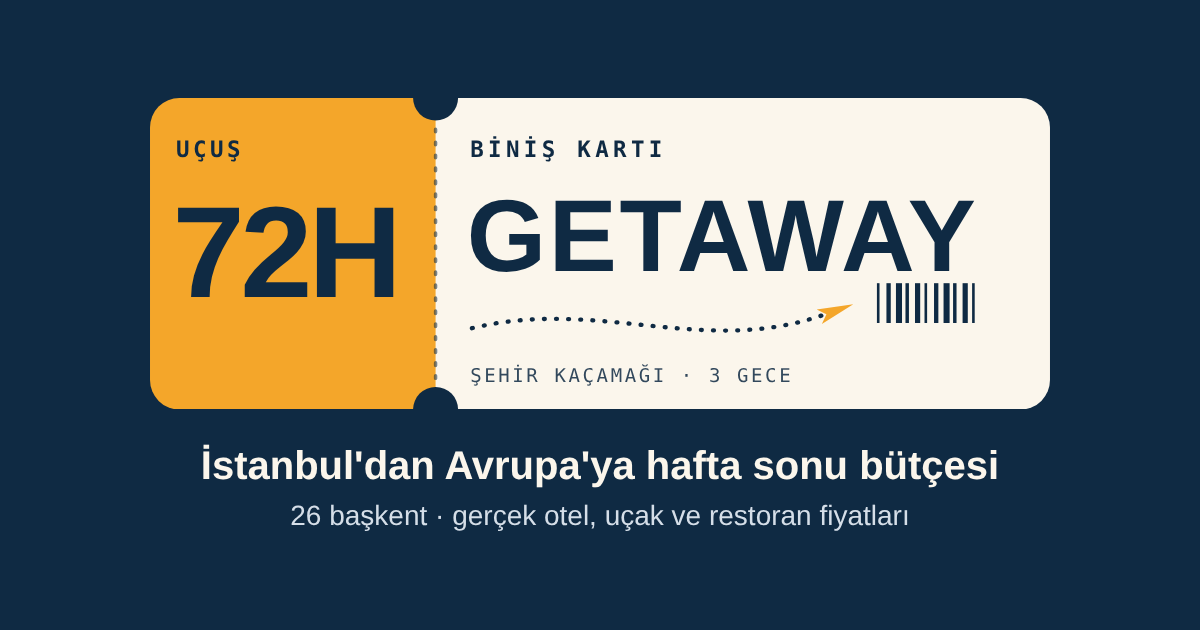
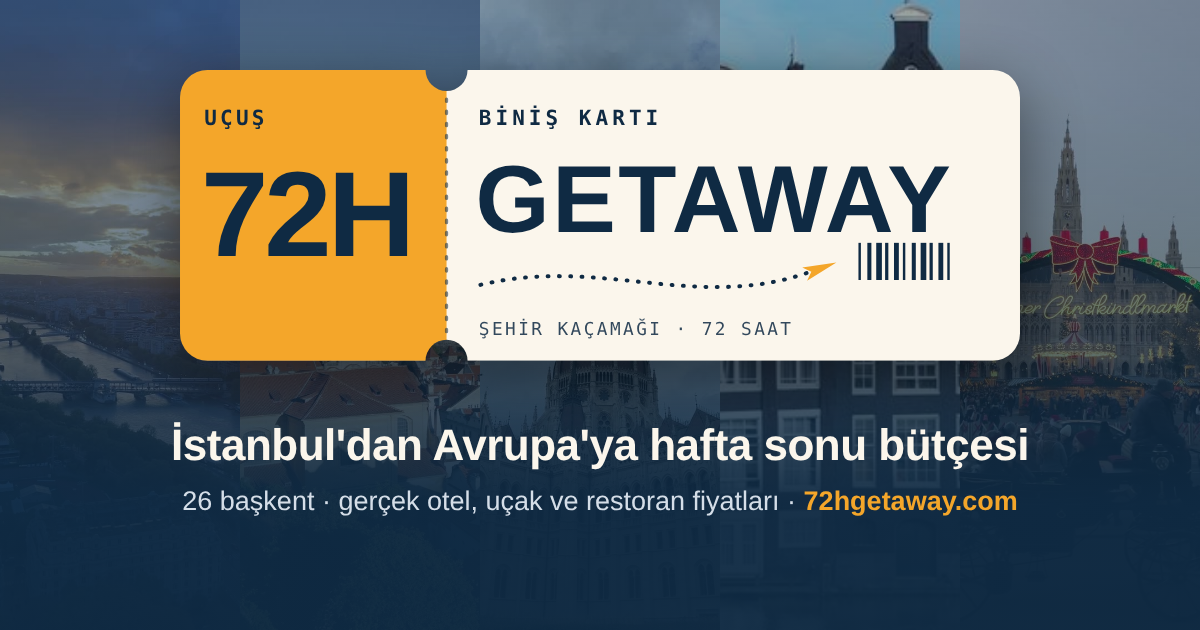
Yeni paylaşım görseli (72 SAAT) ve Amsterdam/Dublin fotoğrafları
- img/paylas.png yeniden üretildi: güncel logo ("ŞEHİR KAÇAMAĞI · 72 SAAT"),
  arkada 5 şehir fotoğrafı, alt satırda 72hgetaway.com. Platformlar eski
  görseli önbellekten göstermesin diye adres paylas.png?v=2.
- Amsterdam: kanal kıyısındaki evler kapak oldu (Pexels 3817790), eski
  gece karesi ikinci fotoğraf (hikâyede o çıkar).
- Dublin: Liffey nehri fotoğrafı eklendi (Pexels 33999754), artık 2 fotoğraf.
- Şehir sayfaları ve vitrin.json yeniden üretildi; önbellek 72h-v7.

Claude-Session: https://claude.ai/code/session_017XwPaxNyE7cMuzzSSLtHLU

diff --git a/sehir/index.html b/sehir/index.html
@@ -17,7 +17,7 @@
 <meta property="og:url" content="https://72hgetaway.com/sehir/">
 <meta property="og:title" content="Avrupa&#39;da hafta sonu bütçesi: 26 başkent">
 <meta property="og:description" content="İstanbul&#39;dan 26 Avrupa başkentine Cuma–Pazar kaçamağı: şehir şehir en ucuz hafta sonu otel ve uçak tahmini, restoran ve gezi fiyatları. 2 kişi, TL.">
-<meta property="og:image" content="https://72hgetaway.com/img/paylas.png">
+<meta property="og:image" content="https://72hgetaway.com/img/paylas.png?v=2">
 <meta property="og:image:width" content="1200"><meta property="og:image:height" content="630">
 <meta name="twitter:card" content="summary_large_image">
 <script type="application/ld+json">{"@context":"https://schema.org","@graph":[{"@type":"WebPage","@id":"https://72hgetaway.com/sehir/","url":"https://72hgetaway.com/sehir/","name":"Avrupa'da hafta sonu bütçesi: 26 başkent, otel + uçak (TL) | 72h Getaway","description":"İstanbul'dan 26 Avrupa başkentine Cuma–Pazar kaçamağı: şehir şehir en ucuz hafta sonu otel ve uçak tahmini, restoran ve gezi fiyatları. 2 kişi, TL.","inLanguage":"tr","dateModified":"2026-11-04","isPartOf":{"@type":"WebSite","name":"72h Getaway","url":"https://72hgetaway.com/"}},{"@type":"BreadcrumbList","itemListElement":[{"@type":"ListItem","position":1,"name":"72h Getaway","item":"https://72hgetaway.com/"},{"@type":"ListItem","position":2,"name":"Şehirler","item":"https://72hgetaway.com/sehir/"}]},{"@type":"ItemList","itemListElement":[{"@type":"ListItem","position":1,"name":"Amsterdam","url":"https://72hgetaway.com/sehir/amsterdam/"},{"@type":"ListItem","position":2,"name":"Atina","url":"https://72hgetaway.com/sehir/atina/"},{"@type":"ListItem","position":3,"name":"Berlin","url":"https://72hgetaway.com/sehir/berlin/"},{"@type":"ListItem","position":4,"name":"Bratislava","url":"https://72hgetaway.com/sehir/bratislava/"},{"@type":"ListItem","position":5,"name":"Brüksel","url":"https://72hgetaway.com/sehir/bruksel/"},{"@type":"ListItem","position":6,"name":"Budapeşte","url":"https://72hgetaway.com/sehir/budapeste/"},{"@type":"ListItem","position":7,"name":"Bükreş","url":"https://72hgetaway.com/sehir/bukres/"},{"@type":"ListItem","position":8,"name":"Dublin","url":"https://72hgetaway.com/sehir/dublin/"},{"@type":"ListItem","position":9,"name":"Helsinki","url":"https://72hgetaway.com/sehir/helsinki/"},{"@type":"ListItem","position":10,"name":"Kopenhag","url":"https://72hgetaway.com/sehir/kopenhag/"},{"@type":"ListItem","position":11,"name":"Lizbon","url":"https://72hgetaway.com/sehir/lizbon/"},{"@type":"ListItem","position":12,"name":"Ljubljana","url":"https://72hgetaway.com/sehir/ljubljana/"},{"@type":"ListItem","position":13,"name":"Lüksemburg","url":"https://72hgetaway.com/sehir/luksemburg/"},{"@type":"ListItem","position":14,"name":"Madrid","url":"https://72hgetaway.com/sehir/madrid/"},{"@type":"ListItem","position":15,"name":"Paris","url":"https://72hgetaway.com/sehir/paris/"},{"@type":"ListItem","position":16,"name":"Prag","url":"https://72hgetaway.com/sehir/prag/"},{"@type":"ListItem","position":17,"name":"Riga","url":"https://72hgetaway.com/sehir/riga/"},{"@type":"ListItem","position":18,"name":"Roma","url":"https://72hgetaway.com/sehir/roma/"},{"@type":"ListItem","position":19,"name":"Sofya","url":"https://72hgetaway.com/sehir/sofya/"},{"@type":"ListItem","position":20,"name":"Stokholm","url":"https://72hgetaway.com/sehir/stokholm/"},{"@type":"ListItem","position":21,"name":"Tallinn","url":"https://72hgetaway.com/sehir/tallinn/"},{"@type":"ListItem","position":22,"name":"Valletta","url":"https://72hgetaway.com/sehir/valletta/"},{"@type":"ListItem","position":23,"name":"Varşova","url":"https://72hgetaway.com/sehir/varsova/"},{"@type":"ListItem","position":24,"name":"Vilnius","url":"https://72hgetaway.com/sehir/vilnius/"},{"@type":"ListItem","position":25,"name":"Viyana","url":"https://72hgetaway.com/sehir/viyana/"},{"@type":"ListItem","position":26,"name":"Zagreb","url":"https://72hgetaway.com/sehir/zagreb/"}]}]}</script>

diff --git a/sehir/amsterdam/index.html b/sehir/amsterdam/index.html
@@ -17,7 +17,7 @@
 <meta property="og:url" content="https://72hgetaway.com/sehir/amsterdam/">
 <meta property="og:title" content="Amsterdam hafta sonu bütçesi: otel, uçak, restoran">
 <meta property="og:description" content="Amsterdam&#39;a hafta sonu kaçamağı kaça patlar? 6–8 Kasım için en ucuz otel gecelik 17.500 TL, İstanbul&#39;dan uçak kişi başı 11.000 TL&#39;den. Restoran, müze ve ulaşım fiyatlarıyla 2 kişilik Cuma–Pazar bütçesi.">
-<meta property="og:image" content="https://72hgetaway.com/img/paylas.png">
+<meta property="og:image" content="https://72hgetaway.com/img/paylas.png?v=2">
 <meta property="og:image:width" content="1200"><meta property="og:image:height" content="630">
 <meta name="twitter:card" content="summary_large_image">
 <script type="application/ld+json">{"@context":"https://schema.org","@graph":[{"@type":"WebPage","@id":"https://72hgetaway.com/sehir/amsterdam/","url":"https://72hgetaway.com/sehir/amsterdam/","name":"Amsterdam hafta sonu bütçesi: otel, uçak, restoran (TL) | 72h Getaway","description":"Amsterdam'a hafta sonu kaçamağı kaça patlar? 6–8 Kasım için en ucuz otel gecelik 17.500 TL, İstanbul'dan uçak kişi başı 11.000 TL'den. Restoran, müze ve ulaşım fiyatlarıyla 2 kişilik Cuma–Pazar bütçesi.","inLanguage":"tr","dateModified":"2026-11-04","isPartOf":{"@type":"WebSite","name":"72h Getaway","url":"https://72hgetaway.com/"},"about":{"@type":"City","name":"Amsterdam"}},{"@type":"BreadcrumbList","itemListElement":[{"@type":"ListItem","position":1,"name":"72h Getaway","item":"https://72hgetaway.com/"},{"@type":"ListItem","position":2,"name":"Şehirler","item":"https://72hgetaway.com/sehir/"},{"@type":"ListItem","position":3,"name":"Amsterdam","item":"https://72hgetaway.com/sehir/amsterdam/"}]}]}</script>
@@ -95,7 +95,7 @@ footer a { display: inline-flex; align-items: center; min-height: 44px; margin-r
     <h1>Amsterdam hafta sonu bütçesi</h1>
     <p>İstanbul'dan Amsterdam&#39;a Cuma–Pazar kaçamağı: robotun bulduğu gerçek otel ve uçak fiyatları, restoranlar, müze biletleri ve ulaşım. 2 kişi için.</p>
     <div class="hero"><a class="big" href="/?sehir=Amsterdam&amp;giris=2026-11-06&amp;cikis=2026-11-08&amp;kisi=2">Kendi bütçeni hesapla</a><a class="ghost" href="/oteller.html?sehir=Amsterdam">Otel fiyat takvimi →</a></div>
-    <figure class="cover"><img src="/img/sehir/amsterdam-1.jpg" srcset="/img/sehir/amsterdam-1-640.jpg 640w, /img/sehir/amsterdam-1.jpg 1080w" sizes="(max-width: 700px) 100vw, 1040px" alt="Amsterdam kanalı ve kanal evleri, gece" width="1080" height="608" fetchpriority="high"><figcaption>Fotoğraf: Pexels</figcaption></figure>
+    <figure class="cover"><img src="/img/sehir/amsterdam-1.jpg" srcset="/img/sehir/amsterdam-1-640.jpg 640w, /img/sehir/amsterdam-1.jpg 1080w" sizes="(max-width: 700px) 100vw, 1040px" alt="Amsterdam, kanal kıyısında tarihi dar evler" width="1080" height="608" fetchpriority="high"><figcaption>Fotoğraf: Pexels</figcaption></figure>
   </div>
 </header>
 <main class="wrap">

diff --git a/sehir/dublin/index.html b/sehir/dublin/index.html
@@ -17,7 +17,7 @@
 <meta property="og:url" content="https://72hgetaway.com/sehir/dublin/">
 <meta property="og:title" content="Dublin hafta sonu bütçesi: otel, uçak, restoran">
 <meta property="og:description" content="Dublin&#39;e hafta sonu kaçamağı kaça patlar? 6–8 Kasım için en ucuz otel gecelik 12.600 TL, İstanbul&#39;dan uçak kişi başı 10.700 TL&#39;den. Restoran, müze ve ulaşım fiyatlarıyla 2 kişilik Cuma–Pazar bütçesi.">
-<meta property="og:image" content="https://72hgetaway.com/img/paylas.png">
+<meta property="og:image" content="https://72hgetaway.com/img/paylas.png?v=2">
 <meta property="og:image:width" content="1200"><meta property="og:image:height" content="630">
 <meta name="twitter:card" content="summary_large_image">
 <script type="application/ld+json">{"@context":"https://schema.org","@graph":[{"@type":"WebPage","@id":"https://72hgetaway.com/sehir/dublin/","url":"https://72hgetaway.com/sehir/dublin/","name":"Dublin hafta sonu bütçesi: otel, uçak, restoran (TL) | 72h Getaway","description":"Dublin'e hafta sonu kaçamağı kaça patlar? 6–8 Kasım için en ucuz otel gecelik 12.600 TL, İstanbul'dan uçak kişi başı 10.700 TL'den. Restoran, müze ve ulaşım fiyatlarıyla 2 kişilik Cuma–Pazar bütçesi.","inLanguage":"tr","dateModified":"2026-11-04","isPartOf":{"@type":"WebSite","name":"72h Getaway","url":"https://72hgetaway.com/"},"about":{"@type":"City","name":"Dublin"}},{"@type":"BreadcrumbList","itemListElement":[{"@type":"ListItem","position":1,"name":"72h Getaway","item":"https://72hgetaway.com/"},{"@type":"ListItem","position":2,"name":"Şehirler","item":"https://72hgetaway.com/sehir/"},{"@type":"ListItem","position":3,"name":"Dublin","item":"https://72hgetaway.com/sehir/dublin/"}]}]}</script>
@@ -95,7 +95,7 @@ footer a { display: inline-flex; align-items: center; min-height: 44px; margin-r
     <h1>Dublin hafta sonu bütçesi</h1>
     <p>İstanbul'dan Dublin&#39;e Cuma–Pazar kaçamağı: robotun bulduğu gerçek otel ve uçak fiyatları, restoranlar, müze biletleri ve ulaşım. 2 kişi için.</p>
     <div class="hero"><a class="big" href="/?sehir=Dublin&amp;giris=2026-11-06&amp;cikis=2026-11-08&amp;kisi=2">Kendi bütçeni hesapla</a><a class="ghost" href="/oteller.html?sehir=Dublin">Otel fiyat takvimi →</a></div>
-    <figure class="cover"><img src="/img/sehir/dublin-2.jpg" srcset="/img/sehir/dublin-2-640.jpg 640w, /img/sehir/dublin-2.jpg 1080w" sizes="(max-width: 700px) 100vw, 1040px" alt="Dublin, akşam ışığında Liffey nehri rıhtımları" width="1080" height="608" fetchpriority="high"><figcaption>Fotoğraf: Pexels</figcaption></figure>
+    <figure class="cover"><img src="/img/sehir/dublin-1.jpg" srcset="/img/sehir/dublin-1-640.jpg 640w, /img/sehir/dublin-1.jpg 1080w" sizes="(max-width: 700px) 100vw, 1040px" alt="Dublin, Liffey nehri ve rıhtımlar" width="1080" height="608" fetchpriority="high"><figcaption>Fotoğraf: Pexels</figcaption></figure>
   </div>
 </header>
 <main class="wrap">

diff --git a/sehir/luksemburg/index.html b/sehir/luksemburg/index.html
@@ -17,7 +17,7 @@
 <meta property="og:url" content="https://72hgetaway.com/sehir/luksemburg/">
 <meta property="og:title" content="Lüksemburg hafta sonu bütçesi: otel, uçak, restoran">
 <meta property="og:description" content="Lüksemburg&#39;a hafta sonu kaçamağı kaça patlar? 6–8 Kasım için en ucuz otel gecelik 6.500 TL, İstanbul&#39;dan uçak kişi başı 11.200 TL&#39;den. Restoran, müze ve ulaşım fiyatlarıyla 2 kişilik Cuma–Pazar bütçesi.">
-<meta property="og:image" content="https://72hgetaway.com/img/paylas.png">
+<meta property="og:image" content="https://72hgetaway.com/img/paylas.png?v=2">
 <meta property="og:image:width" content="1200"><meta property="og:image:height" content="630">
 <meta name="twitter:card" content="summary_large_image">
 <script type="application/ld+json">{"@context":"https://schema.org","@graph":[{"@type":"WebPage","@id":"https://72hgetaway.com/sehir/luksemburg/","url":"https://72hgetaway.com/sehir/luksemburg/","name":"Lüksemburg hafta sonu bütçesi: otel, uçak, restoran (TL) | 72h Getaway","description":"Lüksemburg'a hafta sonu kaçamağı kaça patlar? 6–8 Kasım için en ucuz otel gecelik 6.500 TL, İstanbul'dan uçak kişi başı 11.200 TL'den. Restoran, müze ve ulaşım fiyatlarıyla 2 kişilik Cuma–Pazar bütçesi.","inLanguage":"tr","dateModified":"2026-11-04","isPartOf":{"@type":"WebSite","name":"72h Getaway","url":"https://72hgetaway.com/"},"about":{"@type":"City","name":"Lüksemburg"}},{"@type":"BreadcrumbList","itemListElement":[{"@type":"ListItem","position":1,"name":"72h Getaway","item":"https://72hgetaway.com/"},{"@type":"ListItem","position":2,"name":"Şehirler","item":"https://72hgetaway.com/sehir/"},{"@type":"ListItem","position":3,"name":"Lüksemburg","item":"https://72hgetaway.com/sehir/luksemburg/"}]}]}</script>

diff --git a/sehir/bratislava/index.html b/sehir/bratislava/index.html
@@ -17,7 +17,7 @@
 <meta property="og:url" content="https://72hgetaway.com/sehir/bratislava/">
 <meta property="og:title" content="Bratislava hafta sonu bütçesi: otel, uçak, restoran">
 <meta property="og:description" content="Bratislava&#39;ya hafta sonu kaçamağı kaça patlar? 6–8 Kasım için en ucuz otel gecelik 8.400 TL, İstanbul&#39;dan uçak kişi başı 7.900 TL&#39;den. Restoran, müze ve ulaşım fiyatlarıyla 2 kişilik Cuma–Pazar bütçesi.">
-<meta property="og:image" content="https://72hgetaway.com/img/paylas.png">
+<meta property="og:image" content="https://72hgetaway.com/img/paylas.png?v=2">
 <meta property="og:image:width" content="1200"><meta property="og:image:height" content="630">
 <meta name="twitter:card" content="summary_large_image">
 <script type="application/ld+json">{"@context":"https://schema.org","@graph":[{"@type":"WebPage","@id":"https://72hgetaway.com/sehir/bratislava/","url":"https://72hgetaway.com/sehir/bratislava/","name":"Bratislava hafta sonu bütçesi: otel, uçak, restoran (TL) | 72h Getaway","description":"Bratislava'ya hafta sonu kaçamağı kaça patlar? 6–8 Kasım için en ucuz otel gecelik 8.400 TL, İstanbul'dan uçak kişi başı 7.900 TL'den. Restoran, müze ve ulaşım fiyatlarıyla 2 kişilik Cuma–Pazar bütçesi.","inLanguage":"tr","dateModified":"2026-11-04","isPartOf":{"@type":"WebSite","name":"72h Getaway","url":"https://72hgetaway.com/"},"about":{"@type":"City","name":"Bratislava"}},{"@type":"BreadcrumbList","itemListElement":[{"@type":"ListItem","position":1,"name":"72h Getaway","item":"https://72hgetaway.com/"},{"@type":"ListItem","position":2,"name":"Şehirler","item":"https://72hgetaway.com/sehir/"},{"@type":"ListItem","position":3,"name":"Bratislava","item":"https://72hgetaway.com/sehir/bratislava/"}]}]}</script>

diff --git a/sehir/budapeste/index.html b/sehir/budapeste/index.html
@@ -17,7 +17,7 @@
 <meta property="og:url" content="https://72hgetaway.com/sehir/budapeste/">
 <meta property="og:title" content="Budapeşte hafta sonu bütçesi: otel, uçak, restoran">
 <meta property="og:description" content="Budapeşte&#39;ye hafta sonu kaçamağı kaça patlar? 6–8 Kasım için en ucuz otel gecelik 7.400 TL, İstanbul&#39;dan uçak kişi başı 5.800 TL&#39;den. Restoran, müze ve ulaşım fiyatlarıyla 2 kişilik Cuma–Pazar bütçesi.">
-<meta property="og:image" content="https://72hgetaway.com/img/paylas.png">
+<meta property="og:image" content="https://72hgetaway.com/img/paylas.png?v=2">
 <meta property="og:image:width" content="1200"><meta property="og:image:height" content="630">
 <meta name="twitter:card" content="summary_large_image">
 <script type="application/ld+json">{"@context":"https://schema.org","@graph":[{"@type":"WebPage","@id":"https://72hgetaway.com/sehir/budapeste/","url":"https://72hgetaway.com/sehir/budapeste/","name":"Budapeşte hafta sonu bütçesi: otel, uçak, restoran (TL) | 72h Getaway","description":"Budapeşte'ye hafta sonu kaçamağı kaça patlar? 6–8 Kasım için en ucuz otel gecelik 7.400 TL, İstanbul'dan uçak kişi başı 5.800 TL'den. Restoran, müze ve ulaşım fiyatlarıyla 2 kişilik Cuma–Pazar bütçesi.","inLanguage":"tr","dateModified":"2026-11-04","isPartOf":{"@type":"WebSite","name":"72h Getaway","url":"https://72hgetaway.com/"},"about":{"@type":"City","name":"Budapeşte"}},{"@type":"BreadcrumbList","itemListElement":[{"@type":"ListItem","position":1,"name":"72h Getaway","item":"https://72hgetaway.com/"},{"@type":"ListItem","position":2,"name":"Şehirler","item":"https://72hgetaway.com/sehir/"},{"@type":"ListItem","position":3,"name":"Budapeşte","item":"https://72hgetaway.com/sehir/budapeste/"}]}]}</script>

diff --git a/sehir/ljubljana/index.html b/sehir/ljubljana/index.html
@@ -17,7 +17,7 @@
 <meta property="og:url" content="https://72hgetaway.com/sehir/ljubljana/">
 <meta property="og:title" content="Ljubljana hafta sonu bütçesi: otel, uçak, restoran">
 <meta property="og:description" content="Ljubljana&#39;ya hafta sonu kaçamağı kaça patlar? 6–8 Kasım için en ucuz otel gecelik 5.700 TL, İstanbul&#39;dan uçak kişi başı 7.900 TL&#39;den. Restoran, müze ve ulaşım fiyatlarıyla 2 kişilik Cuma–Pazar bütçesi.">
-<meta property="og:image" content="https://72hgetaway.com/img/paylas.png">
+<meta property="og:image" content="https://72hgetaway.com/img/paylas.png?v=2">
 <meta property="og:image:width" content="1200"><meta property="og:image:height" content="630">
 <meta name="twitter:card" content="summary_large_image">
 <script type="application/ld+json">{"@context":"https://schema.org","@graph":[{"@type":"WebPage","@id":"https://72hgetaway.com/sehir/ljubljana/","url":"https://72hgetaway.com/sehir/ljubljana/","name":"Ljubljana hafta sonu bütçesi: otel, uçak, restoran (TL) | 72h Getaway","description":"Ljubljana'ya hafta sonu kaçamağı kaça patlar? 6–8 Kasım için en ucuz otel gecelik 5.700 TL, İstanbul'dan uçak kişi başı 7.900 TL'den. Restoran, müze ve ulaşım fiyatlarıyla 2 kişilik Cuma–Pazar bütçesi.","inLanguage":"tr","dateModified":"2026-11-04","isPartOf":{"@type":"WebSite","name":"72h Getaway","url":"https://72hgetaway.com/"},"about":{"@type":"City","name":"Ljubljana"}},{"@type":"BreadcrumbList","itemListElement":[{"@type":"ListItem","position":1,"name":"72h Getaway","item":"https://72hgetaway.com/"},{"@type":"ListItem","position":2,"name":"Şehirler","item":"https://72hgetaway.com/sehir/"},{"@type":"ListItem","position":3,"name":"Ljubljana","item":"https://72hgetaway.com/sehir/ljubljana/"}]}]}</script>

diff --git a/sehir/helsinki/index.html b/sehir/helsinki/index.html
@@ -17,7 +17,7 @@
 <meta property="og:url" content="https://72hgetaway.com/sehir/helsinki/">
 <meta property="og:title" content="Helsinki hafta sonu bütçesi: otel, uçak, restoran">
 <meta property="og:description" content="Helsinki&#39;ye hafta sonu kaçamağı kaça patlar? 6–8 Kasım için en ucuz otel gecelik 5.000 TL, İstanbul&#39;dan uçak kişi başı 11.100 TL&#39;den. Restoran, müze ve ulaşım fiyatlarıyla 2 kişilik Cuma–Pazar bütçesi.">
-<meta property="og:image" content="https://72hgetaway.com/img/paylas.png">
+<meta property="og:image" content="https://72hgetaway.com/img/paylas.png?v=2">
 <meta property="og:image:width" content="1200"><meta property="og:image:height" content="630">
 <meta name="twitter:card" content="summary_large_image">
 <script type="application/ld+json">{"@context":"https://schema.org","@graph":[{"@type":"WebPage","@id":"https://72hgetaway.com/sehir/helsinki/","url":"https://72hgetaway.com/sehir/helsinki/","name":"Helsinki hafta sonu bütçesi: otel, uçak, restoran (TL) | 72h Getaway","description":"Helsinki'ye hafta sonu kaçamağı kaça patlar? 6–8 Kasım için en ucuz otel gecelik 5.000 TL, İstanbul'dan uçak kişi başı 11.100 TL'den. Restoran, müze ve ulaşım fiyatlarıyla 2 kişilik Cuma–Pazar bütçesi.","inLanguage":"tr","dateModified":"2026-11-04","isPartOf":{"@type":"WebSite","name":"72h Getaway","url":"https://72hgetaway.com/"},"about":{"@type":"City","name":"Helsinki"}},{"@type":"BreadcrumbList","itemListElement":[{"@type":"ListItem","position":1,"name":"72h Getaway","item":"https://72hgetaway.com/"},{"@type":"ListItem","position":2,"name":"Şehirler","item":"https://72hgetaway.com/sehir/"},{"@type":"ListItem","position":3,"name":"Helsinki","item":"https://72hgetaway.com/sehir/helsinki/"}]}]}</script>

diff --git a/sehir/valletta/index.html b/sehir/valletta/index.html
@@ -17,7 +17,7 @@
 <meta property="og:url" content="https://72hgetaway.com/sehir/valletta/">
 <meta property="og:title" content="Valletta hafta sonu bütçesi: otel, uçak, restoran">
 <meta property="og:description" content="Valletta&#39;ya hafta sonu kaçamağı kaça patlar? 6–8 Kasım için en ucuz otel gecelik 7.900 TL, İstanbul&#39;dan uçak kişi başı 10.200 TL&#39;den. Restoran, müze ve ulaşım fiyatlarıyla 2 kişilik Cuma–Pazar bütçesi.">
-<meta property="og:image" content="https://72hgetaway.com/img/paylas.png">
+<meta property="og:image" content="https://72hgetaway.com/img/paylas.png?v=2">
 <meta property="og:image:width" content="1200"><meta property="og:image:height" content="630">
 <meta name="twitter:card" content="summary_large_image">
 <script type="application/ld+json">{"@context":"https://schema.org","@graph":[{"@type":"WebPage","@id":"https://72hgetaway.com/sehir/valletta/","url":"https://72hgetaway.com/sehir/valletta/","name":"Valletta hafta sonu bütçesi: otel, uçak, restoran (TL) | 72h Getaway","description":"Valletta'ya hafta sonu kaçamağı kaça patlar? 6–8 Kasım için en ucuz otel gecelik 7.900 TL, İstanbul'dan uçak kişi başı 10.200 TL'den. Restoran, müze ve ulaşım fiyatlarıyla 2 kişilik Cuma–Pazar bütçesi.","inLanguage":"tr","dateModified":"2026-11-04","isPartOf":{"@type":"WebSite","name":"72h Getaway","url":"https://72hgetaway.com/"},"about":{"@type":"City","name":"Valletta"}},{"@type":"BreadcrumbList","itemListElement":[{"@type":"ListItem","position":1,"name":"72h Getaway","item":"https://72hgetaway.com/"},{"@type":"ListItem","position":2,"name":"Şehirler","item":"https://72hgetaway.com/sehir/"},{"@type":"ListItem","position":3,"name":"Valletta","item":"https://72hgetaway.com/sehir/valletta/"}]}]}</script>

diff --git a/sehir/kopenhag/index.html b/sehir/kopenhag/index.html
@@ -17,7 +17,7 @@
 <meta property="og:url" content="https://72hgetaway.com/sehir/kopenhag/">
 <meta property="og:title" content="Kopenhag hafta sonu bütçesi: otel, uçak, restoran">
 <meta property="og:description" content="Kopenhag&#39;a hafta sonu kaçamağı kaça patlar? 6–8 Kasım için en ucuz otel gecelik 6.700 TL, İstanbul&#39;dan uçak kişi başı 9.100 TL&#39;den. Restoran, müze ve ulaşım fiyatlarıyla 2 kişilik Cuma–Pazar bütçesi.">
-<meta property="og:image" content="https://72hgetaway.com/img/paylas.png">
+<meta property="og:image" content="https://72hgetaway.com/img/paylas.png?v=2">
 <meta property="og:image:width" content="1200"><meta property="og:image:height" content="630">
 <meta name="twitter:card" content="summary_large_image">
 <script type="application/ld+json">{"@context":"https://schema.org","@graph":[{"@type":"WebPage","@id":"https://72hgetaway.com/sehir/kopenhag/","url":"https://72hgetaway.com/sehir/kopenhag/","name":"Kopenhag hafta sonu bütçesi: otel, uçak, restoran (TL) | 72h Getaway","description":"Kopenhag'a hafta sonu kaçamağı kaça patlar? 6–8 Kasım için en ucuz otel gecelik 6.700 TL, İstanbul'dan uçak kişi başı 9.100 TL'den. Restoran, müze ve ulaşım fiyatlarıyla 2 kişilik Cuma–Pazar bütçesi.","inLanguage":"tr","dateModified":"2026-11-04","isPartOf":{"@type":"WebSite","name":"72h Getaway","url":"https://72hgetaway.com/"},"about":{"@type":"City","name":"Kopenhag"}},{"@type":"BreadcrumbList","itemListElement":[{"@type":"ListItem","position":1,"name":"72h Getaway","item":"https://72hgetaway.com/"},{"@type":"ListItem","position":2,"name":"Şehirler","item":"https://72hgetaway.com/sehir/"},{"@type":"ListItem","position":3,"name":"Kopenhag","item":"https://72hgetaway.com/sehir/kopenhag/"}]}]}</script>

diff --git a/sehir/stokholm/index.html b/sehir/stokholm/index.html
@@ -17,7 +17,7 @@
 <meta property="og:url" content="https://72hgetaway.com/sehir/stokholm/">
 <meta property="og:title" content="Stokholm hafta sonu bütçesi: otel, uçak, restoran">
 <meta property="og:description" content="Stokholm&#39;e hafta sonu kaçamağı kaça patlar? 6–8 Kasım için en ucuz otel gecelik 6.400 TL, İstanbul&#39;dan uçak kişi başı 8.600 TL&#39;den. Restoran, müze ve ulaşım fiyatlarıyla 2 kişilik Cuma–Pazar bütçesi.">
-<meta property="og:image" content="https://72hgetaway.com/img/paylas.png">
+<meta property="og:image" content="https://72hgetaway.com/img/paylas.png?v=2">
 <meta property="og:image:width" content="1200"><meta property="og:image:height" content="630">
 <meta name="twitter:card" content="summary_large_image">
 <script type="application/ld+json">{"@context":"https://schema.org","@graph":[{"@type":"WebPage","@id":"https://72hgetaway.com/sehir/stokholm/","url":"https://72hgetaway.com/sehir/stokholm/","name":"Stokholm hafta sonu bütçesi: otel, uçak, restoran (TL) | 72h Getaway","description":"Stokholm'e hafta sonu kaçamağı kaça patlar? 6–8 Kasım için en ucuz otel gecelik 6.400 TL, İstanbul'dan uçak kişi başı 8.600 TL'den. Restoran, müze ve ulaşım fiyatlarıyla 2 kişilik Cuma–Pazar bütçesi.","inLanguage":"tr","dateModified":"2026-11-04","isPartOf":{"@type":"WebSite","name":"72h Getaway","url":"https://72hgetaway.com/"},"about":{"@type":"City","name":"Stokholm"}},{"@type":"BreadcrumbList","itemListElement":[{"@type":"ListItem","position":1,"name":"72h Getaway","item":"https://72hgetaway.com/"},{"@type":"ListItem","position":2,"name":"Şehirler","item":"https://72hgetaway.com/sehir/"},{"@type":"ListItem","position":3,"name":"Stokholm","item":"https://72hgetaway.com/sehir/stokholm/"}]}]}</script>

diff --git a/sehir/varsova/index.html b/sehir/varsova/index.html
@@ -17,7 +17,7 @@
 <meta property="og:url" content="https://72hgetaway.com/sehir/varsova/">
 <meta property="og:title" content="Varşova hafta sonu bütçesi: otel, uçak, restoran">
 <meta property="og:description" content="Varşova&#39;ya hafta sonu kaçamağı kaça patlar? 6–8 Kasım için en ucuz otel gecelik 4.400 TL, İstanbul&#39;dan uçak kişi başı 10.700 TL&#39;den. Restoran, müze ve ulaşım fiyatlarıyla 2 kişilik Cuma–Pazar bütçesi.">
-<meta property="og:image" content="https://72hgetaway.com/img/paylas.png">
+<meta property="og:image" content="https://72hgetaway.com/img/paylas.png?v=2">
 <meta property="og:image:width" content="1200"><meta property="og:image:height" content="630">
 <meta name="twitter:card" content="summary_large_image">
 <script type="application/ld+json">{"@context":"https://schema.org","@graph":[{"@type":"WebPage","@id":"https://72hgetaway.com/sehir/varsova/","url":"https://72hgetaway.com/sehir/varsova/","name":"Varşova hafta sonu bütçesi: otel, uçak, restoran (TL) | 72h Getaway","description":"Varşova'ya hafta sonu kaçamağı kaça patlar? 6–8 Kasım için en ucuz otel gecelik 4.400 TL, İstanbul'dan uçak kişi başı 10.700 TL'den. Restoran, müze ve ulaşım fiyatlarıyla 2 kişilik Cuma–Pazar bütçesi.","inLanguage":"tr","dateModified":"2026-11-04","isPartOf":{"@type":"WebSite","name":"72h Getaway","url":"https://72hgetaway.com/"},"about":{"@type":"City","name":"Varşova"}},{"@type":"BreadcrumbList","itemListElement":[{"@type":"ListItem","position":1,"name":"72h Getaway","item":"https://72hgetaway.com/"},{"@type":"ListItem","position":2,"name":"Şehirler","item":"https://72hgetaway.com/sehir/"},{"@type":"ListItem","position":3,"name":"Varşova","item":"https://72hgetaway.com/sehir/varsova/"}]}]}</script>
